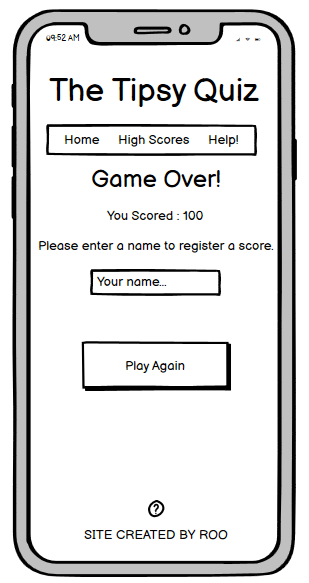
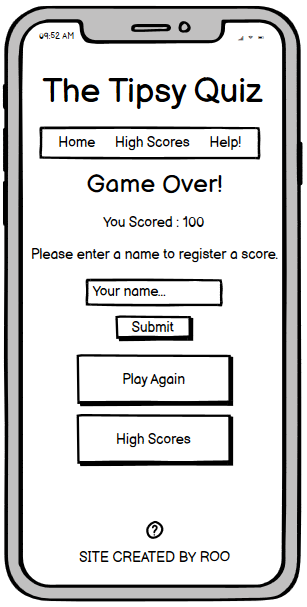
Updated Readme.md and imported altered wireframes for gameover page

diff --git a/README.md b/README.md
@@ -23,9 +23,25 @@ The Tipsy Quiz, is a fun interactive website where the user partakes in a pub li
 
 ## User Experience
 
-### Audience
-
 ### User Stories
+
+- First time user:
+
+  1. Enjoy their experience whilst active on the site.
+  2. Enjoy their time partaking in the quiz.
+  3.
+
+- Returning User:
+
+  1. To know how to navigate the site well.
+  2. To want to take part in the quiz again.
+
+- As a site creator:
+  1. Make the site interactive and fun.
+  2. Ensure there are questions covering a wide variety of difficulties and subjects.
+  3. Make sure the user enjoys their time using the application.
+  4. Provide easy access to dev to submit questions.
+  5.
 
 ### Design
 
@@ -76,6 +92,40 @@ With the design of 'The Tipsy Quiz' aiming to be fun and interactive, I have pic
 2. [Roboto Slab](https://fonts.google.com/specimen/Roboto+Slab?preview.text=The%20Tipsy%20Quiz&preview.text_type=custom&query=roboto+s) - This font is an easier to read font and will be used for more in-depth blocks of text. Like on the 'Help?' page, which will require this.
 
 ## Features
+
+- Header
+
+  - The logo will act as a link back to the homepage.
+  - The small navigation will be the same on all pages allowing for quick movement and ease of navigation.
+
+- Quiz
+
+  - A counter to show what question you are on.
+  - Your current score.
+  - The Question itself.
+  - 4 answers of which only 1 is correct.
+
+- Game Over
+
+  - Text field to enter a name.
+  - Your score from that round.
+  - A submit button
+  - Play again button.
+  - HighScores button.
+
+- High Scores
+
+  - Rankings for peoples scores.
+  - Play button.
+
+- Help
+
+  - Quick and brief description on how to play the quiz.
+  - Contact Form.
+
+- Footer
+  - Small help button to link to the help page.
+  - Dev link / socials.
 
 ### Future Features:
 
